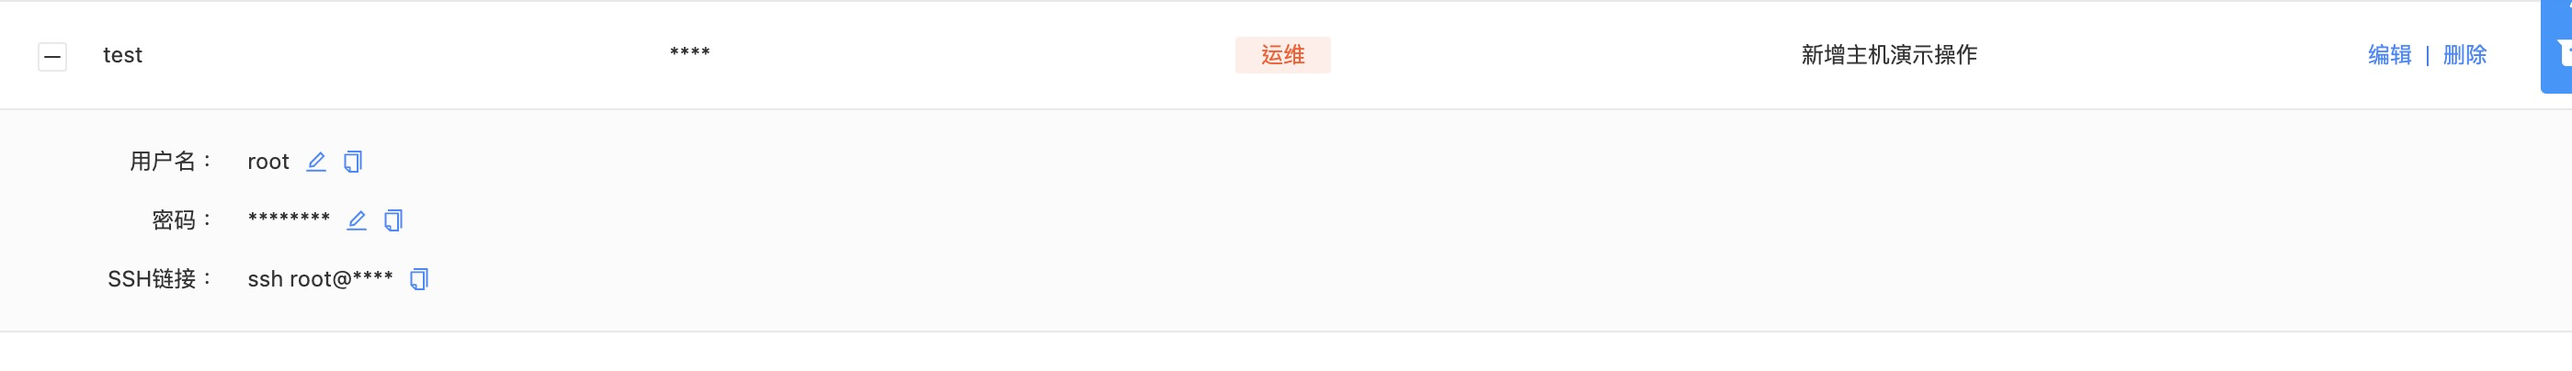
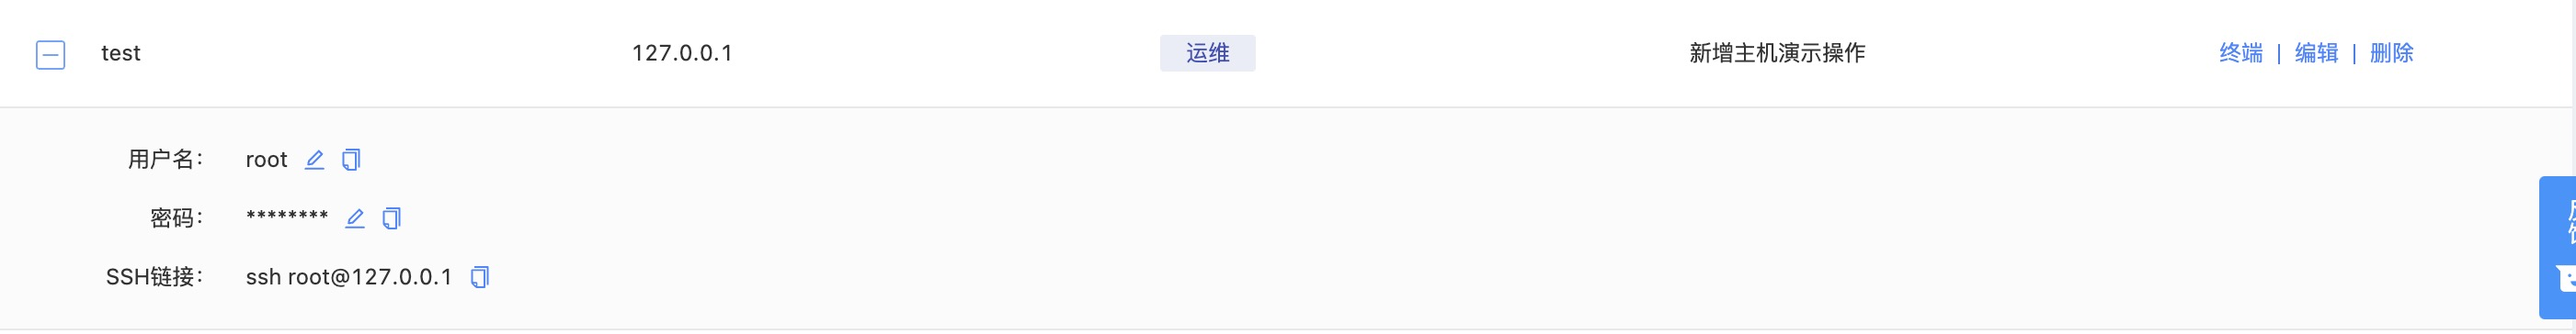
fix: style and doc, some small changes

diff --git a/app/web/pages/hostManagement/index.tsx b/app/web/pages/hostManagement/index.tsx
@@ -58,7 +58,7 @@ export default (props: any) => {
             width: 200,
             render: (value: any, row: any) => {
                 return <span>
-                    <a onClick={handleOpenTerminal.bind(this, row)}>webTerminal</a>
+                    <a onClick={handleOpenTerminal.bind(this, row)}>终端</a>
                     <Divider type="vertical" />
                     <a onClick={handleTableRowEdit.bind(this, row)}>编辑</a>
                     <Divider type="vertical" />

diff --git a/app/web/layouts/header/header.tsx b/app/web/layouts/header/header.tsx
@@ -3,7 +3,7 @@ import { AppstoreOutlined, CloudOutlined, DesktopOutlined, TagOutlined, SettingO
 import { Layout, Menu } from 'antd';
 import { Link } from 'react-router-dom';
 import { useSelector } from 'react-redux';
-import logo from '../../asset/images/logo.png';
+import logo from '@/asset/images/logo.png';
 import config from '../../../../env.json';
 import './style.scss';
 

diff --git a/app/web/pages/hostManagement/components/webTerminalModal/index.tsx b/app/web/pages/hostManagement/components/webTerminalModal/index.tsx
@@ -12,7 +12,8 @@ const WebTerminalModal = (props) => {
     const { visible, onCancel, value: { hostIp, password, username } } = props
     return (
         <Modal
-            title="webTerminal"
+            title="Web Terminal"
+            className="web-terminal__ant-modal"
             width={620}
             visible={visible}
             onCancel={onCancel}

diff --git a/app/web/pages/proxyServer/index.tsx b/app/web/pages/proxyServer/index.tsx
@@ -7,7 +7,7 @@ import ProxyRuleModal from './components/proxyRuleModal';
 import Cookies from 'js-cookie';
 import { connect } from 'react-redux'
 const { Paragraph } = Typography;
-import helpIcon from '../../asset/images/help-icon.png';
+import helpIcon from '@/asset/images/help-icon.png';
 import config from '../../../../env.json';
 import './style.scss';
 

diff --git a/app/web/pages/hostManagement/style.scss b/app/web/pages/hostManagement/style.scss
@@ -8,3 +8,17 @@
       justify-content: space-between;
   }
 }
+.web-terminal__ant-modal {
+  .ant-modal-header {
+    padding: 8px;
+  }
+  .ant-modal-close-x {
+    width: 40px;
+    height: 40px;
+    line-height: 40px;
+  }
+  .ant-modal-body {
+    padding: 8px;
+    background-color: black;
+  }
+}

diff --git a/app/web/pages/webTerminal/style.scss b/app/web/pages/webTerminal/style.scss
@@ -1,6 +1,6 @@
 .c-webTerminal__container {
     width: 100%;
-    height: 350px;
+    height: 340px;
     .xterm-viewport {
         width: 100% !important;
     }

diff --git a/docs/docsify/zh-cn/guide/主机管理.md b/docs/docsify/zh-cn/guide/主机管理.md
@@ -1,6 +1,6 @@
 # 主机管理
 
-提供主机管理功能，管理远程主机地址及账号密码，用于访问远程目标机器，配置文件修改。
+提供主机管理功能，管理远程主机地址及账号密码，用于访问远程目标机器（也可通过 Web Terminal 直接打开终端），配置文件修改。
 ## 新增主机管理
 
 1. 点击新增主机
@@ -14,3 +14,7 @@
 4. 查看详情
 
 ![主机详情](../../imgs/host_management_detail.jpg)
+
+5. 开启终端
+
+![开启终端](../../imgs/web_terminal.jpg)
